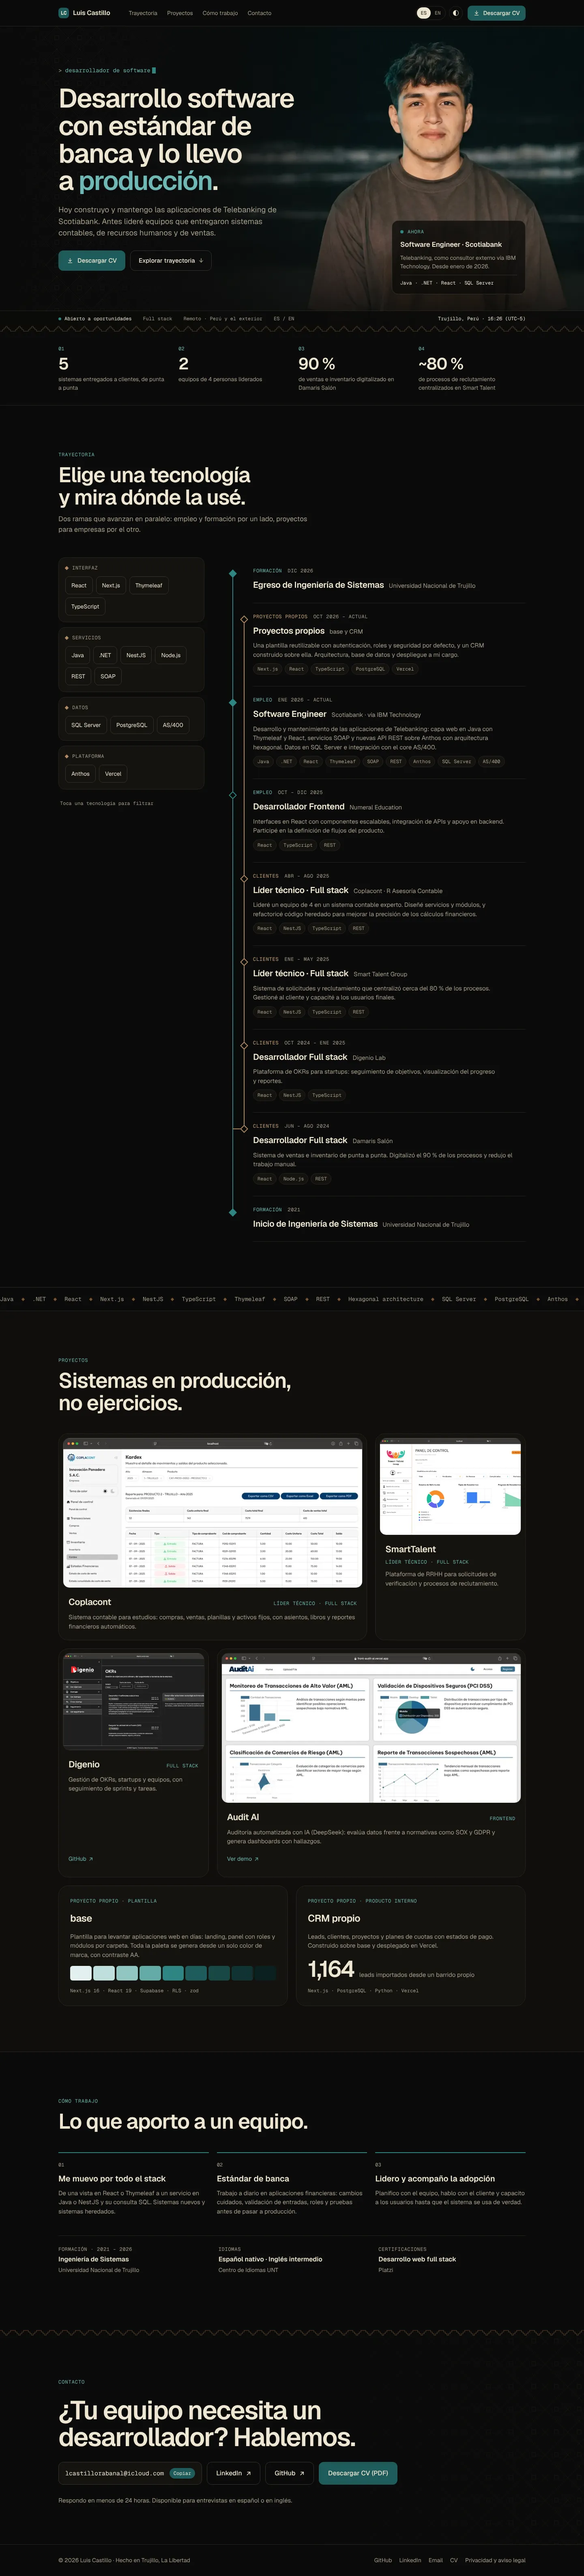
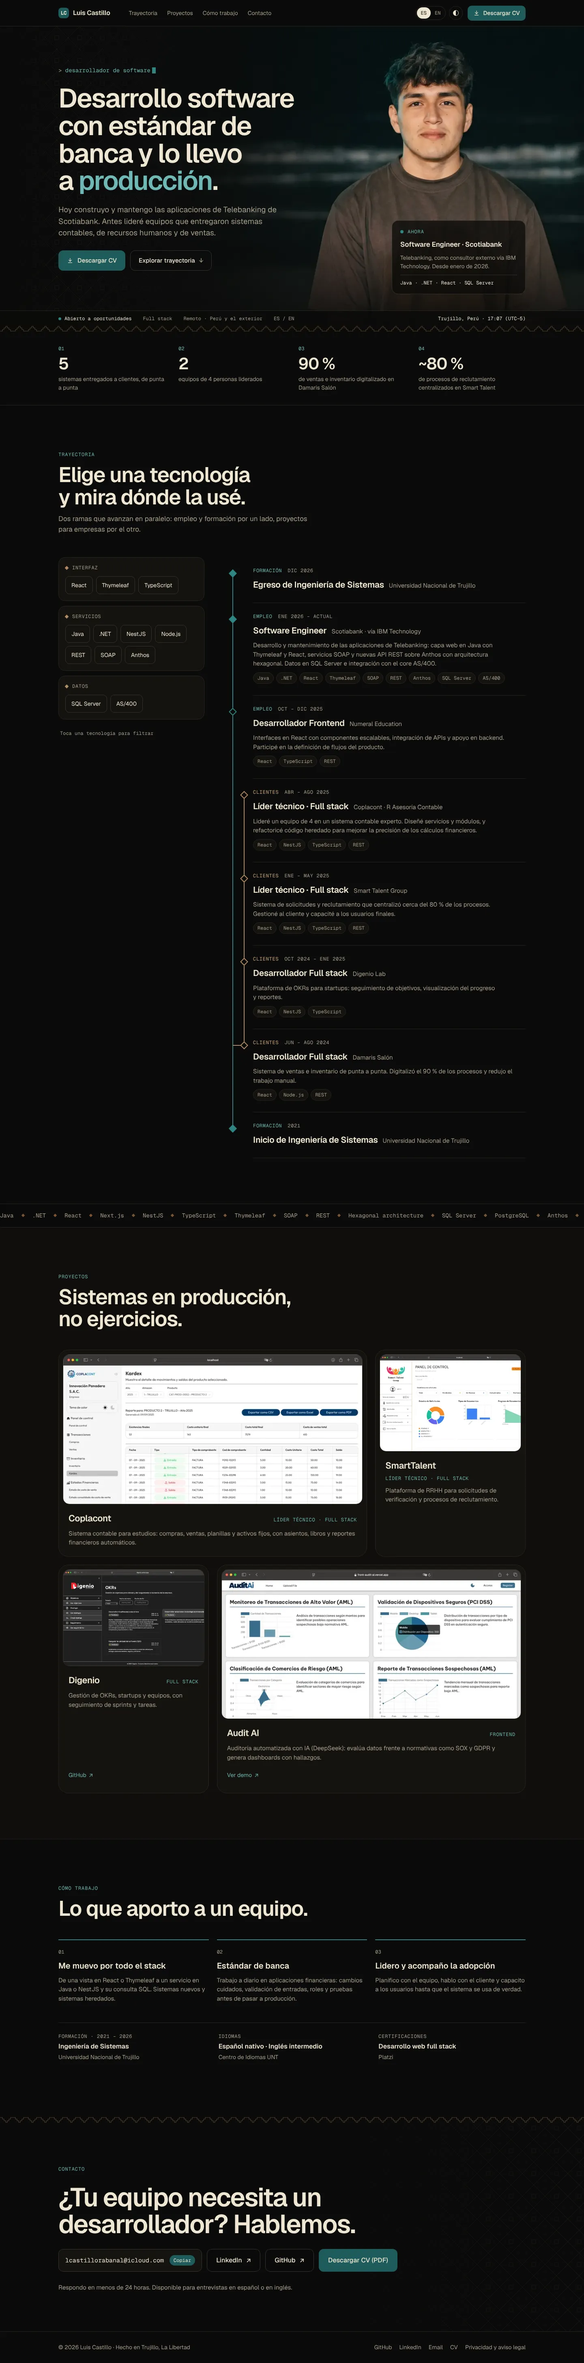
Drop the own projects from the professional portfolio
Remove base and the CRM from the career timeline and the project bento,
and the technologies only they used from the filter. They belong to the
business, not to the profile for employers.

Claude-Session: https://claude.ai/code/session_01Uy9YNiPk6aSDg76fDe26Bj

diff --git a/src/data/cv.ts b/src/data/cv.ts
@@ -4,7 +4,6 @@
 
 export const techs = [
   "React",
-  "Next.js",
   "Thymeleaf",
   "TypeScript",
   "Java",
@@ -14,27 +13,23 @@ export const techs = [
   "REST",
   "SOAP",
   "SQL Server",
-  "PostgreSQL",
   "AS/400",
   "Anthos",
-  "Vercel",
 ] as const;
 
 export type Tech = (typeof techs)[number];
 
-export type LayerId = "interface" | "services" | "data" | "platform";
+export type LayerId = "interface" | "services" | "data";
 
 /** The stack grouped by layer; it doubles as the filter of the career timeline. */
 export const layers: { id: LayerId; techs: Tech[] }[] = [
-  { id: "interface", techs: ["React", "Next.js", "Thymeleaf", "TypeScript"] },
-  { id: "services", techs: ["Java", ".NET", "NestJS", "Node.js", "REST", "SOAP"] },
-  { id: "data", techs: ["SQL Server", "PostgreSQL", "AS/400"] },
-  { id: "platform", techs: ["Anthos", "Vercel"] },
+  { id: "interface", techs: ["React", "Thymeleaf", "TypeScript"] },
+  { id: "services", techs: ["Java", ".NET", "NestJS", "Node.js", "REST", "SOAP", "Anthos"] },
+  { id: "data", techs: ["SQL Server", "AS/400"] },
 ];
 
 export type EntryId =
   | "graduation"
-  | "own"
   | "scotiabank"
   | "numeral"
   | "coplacont"
@@ -53,10 +48,9 @@ export type TimelineEntry = {
   current?: boolean;
 };
 
-/** Newest first. The side lane spans from "own" down to "damaris", where it branches off. */
+/** Newest first. The side lane runs from its first entry down to "damaris", where it branches off. */
 export const timeline: TimelineEntry[] = [
   { id: "graduation", lane: "main", kind: "milestone", techs: [] },
-  { id: "own", lane: "side", kind: "job", techs: ["Next.js", "React", "TypeScript", "PostgreSQL", "Vercel"] },
   {
     id: "scotiabank",
     lane: "main",
@@ -93,15 +87,3 @@ export const marquee = [
   "Scrum",
 ];
 
-/** A brand color ramp, as the `base` template generates it from a single color. */
-export const paletteRamp = [
-  "#e3f1f0",
-  "#bfdedc",
-  "#92c6c3",
-  "#63aaa7",
-  "#2f8583",
-  "#1f5c5b",
-  "#184846",
-  "#113332",
-  "#0a2020",
-];

diff --git a/src/i18n/dictionaries/cv/es.ts b/src/i18n/dictionaries/cv/es.ts
@@ -51,7 +51,6 @@ const es = {
       interface: "Interfaz",
       services: "Servicios",
       data: "Datos",
-      platform: "Plataforma",
     } satisfies Record<LayerId, string>,
     hint: "Toca una tecnología para filtrar",
     /** {tech}, {count} and {total} are replaced at runtime. */
@@ -63,14 +62,6 @@ const es = {
         period: "Dic 2026",
         role: "Egreso de Ingeniería de Sistemas",
         company: "Universidad Nacional de Trujillo",
-      },
-      own: {
-        lane: "Proyectos propios",
-        period: "Oct 2026 – Actual",
-        role: "Proyectos propios",
-        company: "base y CRM",
-        summary:
-          "Una plantilla reutilizable con autenticación, roles y seguridad por defecto, y un CRM construido sobre ella. Arquitectura, base de datos y despliegue a mi cargo.",
       },
       scotiabank: {
         lane: "Empleo",
@@ -137,20 +128,6 @@ const es = {
       digenio: "Full stack",
       auditai: "Frontend",
     } satisfies Record<ProjectId, string>,
-    base: {
-      kind: "Proyecto propio · Plantilla",
-      name: "base",
-      text: "Plantilla para levantar aplicaciones web en días: landing, panel con roles y módulos por carpeta. Toda la paleta se genera desde un solo color de marca, con contraste AA.",
-      stack: "Next.js 16 · React 19 · Supabase · RLS · zod",
-    },
-    crm: {
-      kind: "Proyecto propio · Producto interno",
-      name: "CRM propio",
-      text: "Leads, clientes, proyectos y planes de cuotas con estados de pago. Construido sobre base y desplegado en Vercel.",
-      figure: "1,164",
-      figureText: "leads importados desde un barrido propio",
-      stack: "Next.js · PostgreSQL · Python · Vercel",
-    },
   },
   approach: {
     eyebrow: "Cómo trabajo",

diff --git a/src/i18n/dictionaries/cv/en.ts b/src/i18n/dictionaries/cv/en.ts
@@ -48,7 +48,6 @@ const en: CvDictionary = {
       interface: "Interface",
       services: "Services",
       data: "Data",
-      platform: "Platform",
     },
     hint: "Tap a technology to filter",
     result: "{tech}: {count} of {total} roles",
@@ -59,14 +58,6 @@ const en: CvDictionary = {
         period: "Dec 2026",
         role: "Graduation, Systems Engineering",
         company: "Universidad Nacional de Trujillo",
-      },
-      own: {
-        lane: "Own projects",
-        period: "Oct 2026 – Present",
-        role: "Own projects",
-        company: "base and CRM",
-        summary:
-          "A reusable template with authentication, roles and security by default, and a CRM built on top of it. I own the architecture, the database and the deployment.",
       },
       scotiabank: {
         lane: "Employment",
@@ -131,20 +122,6 @@ const en: CvDictionary = {
       smarttalent: "Tech lead · Full stack",
       digenio: "Full stack",
       auditai: "Frontend",
-    },
-    base: {
-      kind: "Own project · Template",
-      name: "base",
-      text: "A template to stand up web applications in days: landing page, role-based panel and one folder per module. The whole palette is generated from a single brand color, with AA contrast.",
-      stack: "Next.js 16 · React 19 · Supabase · RLS · zod",
-    },
-    crm: {
-      kind: "Own project · Internal product",
-      name: "Own CRM",
-      text: "Leads, clients, projects and installment plans with payment statuses. Built on base and deployed on Vercel.",
-      figure: "1,164",
-      figureText: "leads imported from my own data sweep",
-      stack: "Next.js · PostgreSQL · Python · Vercel",
     },
   },
   approach: {

diff --git a/src/components/cv/CvSections.tsx b/src/components/cv/CvSections.tsx
@@ -1,7 +1,7 @@
 import Image from "next/image";
 import type { Dictionary } from "@/i18n/dictionaries/es";
 import type { CvDictionary } from "@/i18n/dictionaries/cv/es";
-import { marquee, paletteRamp } from "@/data/cv";
+import { marquee } from "@/data/cv";
 import { projects } from "@/data/projects";
 import { site } from "@/data/site";
 import { ButtonLink } from "@/components/ui/Button";
@@ -82,29 +82,6 @@ export function CvProjects({ t, shared }: CvProjectsProps) {
               </div>
             </article>
           ))}
-
-          <article className={`${styles.tile} ${styles.own}`}>
-            <span className={styles.kind}>{t.base.kind}</span>
-            <h3 className={styles.ownName}>{t.base.name}</h3>
-            <p className={styles.text}>{t.base.text}</p>
-            <div className={styles.ramp} aria-hidden>
-              {paletteRamp.map((color) => (
-                <span key={color} style={{ background: color }} />
-              ))}
-            </div>
-            <span className={styles.stackLine}>{t.base.stack}</span>
-          </article>
-
-          <article className={`${styles.tile} ${styles.own}`}>
-            <span className={styles.kind}>{t.crm.kind}</span>
-            <h3 className={styles.ownName}>{t.crm.name}</h3>
-            <p className={styles.text}>{t.crm.text}</p>
-            <p className={styles.bigFigure}>
-              <span className={styles.bigValue}>{t.crm.figure}</span>
-              <span className={styles.text}>{t.crm.figureText}</span>
-            </p>
-            <span className={styles.stackLine}>{t.crm.stack}</span>
-          </article>
         </div>
       </div>
     </section>

diff --git a/src/components/cv/Career.tsx b/src/components/cv/Career.tsx
@@ -12,6 +12,7 @@ import styles from "./Career.module.css";
  */
 export function Career({ t }: { t: CvDictionary["career"] }) {
   const [filter, setFilter] = useState<Tech | null>(null);
+  const sideStart = timeline.findIndex((entry) => entry.lane === "side");
 
   const matches = timeline.filter((entry) => entry.kind === "job" && filter && entry.techs.includes(filter)).length;
   const status = filter
@@ -73,7 +74,8 @@ export function Career({ t }: { t: CvDictionary["career"] }) {
                   data-first={index === 0 || undefined}
                   data-last={index === timeline.length - 1 || undefined}
                   data-branch={entry.id === "damaris" || undefined}
-                  data-side-start={entry.id === "own" || undefined}
+                  data-side-start={index === sideStart || undefined}
+                  data-before-side={index < sideStart || undefined}
                 >
                   <div className={styles.graph} aria-hidden>
                     <span className={styles.mainLine} />

diff --git a/src/components/cv/CvSections.module.css b/src/components/cv/CvSections.module.css
@@ -144,12 +144,6 @@
   grid-column: span 2;
 }
 
-.own {
-  grid-column: span 3;
-  padding: 28px;
-  gap: 16px;
-}
-
 .media {
   position: relative;
   border-radius: var(--radius-lg);
@@ -212,45 +206,6 @@
 
 .link:hover {
   color: var(--text);
-}
-
-.ownName {
-  font-size: 24px;
-  letter-spacing: -0.02em;
-  font-weight: 600;
-}
-
-.ramp {
-  margin-top: auto;
-  display: grid;
-  grid-template-columns: repeat(9, minmax(0, 1fr));
-  gap: 4px;
-}
-
-.ramp span {
-  height: 36px;
-  border-radius: 6px;
-}
-
-.bigFigure {
-  margin-top: auto;
-  display: flex;
-  flex-wrap: wrap;
-  align-items: baseline;
-  gap: 4px 12px;
-}
-
-.bigValue {
-  font-size: 56px;
-  line-height: 1;
-  letter-spacing: -0.04em;
-  font-weight: 600;
-}
-
-.stackLine {
-  font-family: var(--font-mono), ui-monospace, monospace;
-  font-size: 12px;
-  color: var(--muted);
 }
 
 /* ---------- Approach ---------- */
@@ -428,8 +383,7 @@
   }
 
   .wide,
-  .narrow,
-  .own {
+  .narrow {
     grid-column: span 6;
   }
 

diff --git a/src/components/cv/Career.module.css b/src/components/cv/Career.module.css
@@ -163,7 +163,7 @@
   height: var(--node-y);
 }
 
-.entry[data-first] .sideLine,
+.entry[data-before-side] .sideLine,
 .entry[data-last] .sideLine {
   display: none;
 }
